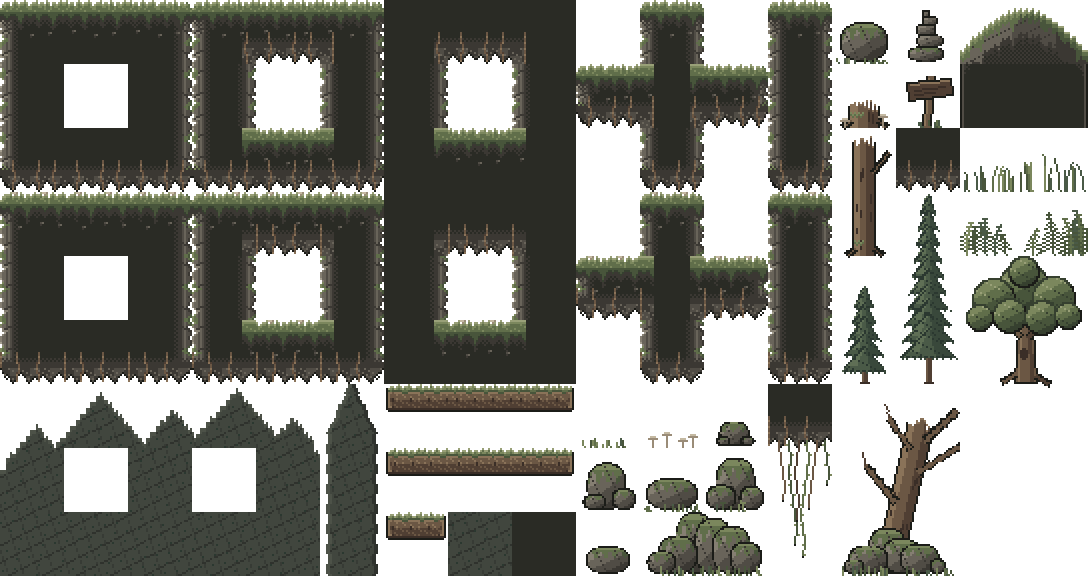
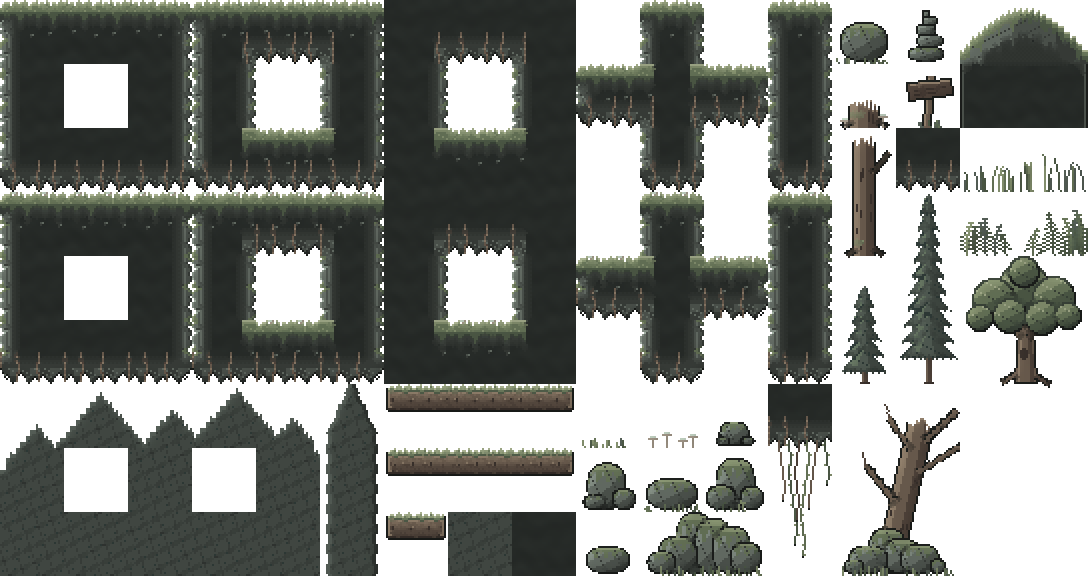
Tiles do Purgatório combinando com os fundos pintados: o atlas tiles_purgatorio_2x.png (terreno, pontes e o resto do atlas) é repintado a partir do original, só nos pixels; grade 17 x 9 de 64 px, transparência de cada pixel, layout dos tilemaps e colisão ficam iguais. Na arte 1x: o xadrez de pontilh

diff --git a/tools/arte_tiles_purgatorio.py b/tools/arte_tiles_purgatorio.py
@@ -1,0 +1,165 @@
+"""Repinta o atlas do terreno do Purgatório (assets/purgatorio/tiles/tiles_purgatorio_2x.png) para combinar com os
+fundos pintados (caverna da fase, serra do hub): rocha cinza-esverdeada, luz de cima à esquerda, sem pontilhado.
+
+Parte do atlas atual e só troca pixels: a grade (17 x 9 tiles de 64 px), a transparência de cada pixel (e portanto a
+forma e a colisão das peças) e o layout dos tilemaps não mudam. Trabalha na arte 1x (cada pixel do atlas é um bloco
+2x2) e devolve em 2x.
+- Pontilhado: onde um pixel é xadrez entre duas cores (os quatro vizinhos iguais entre si e diferentes dele), vira a
+  média das duas, então as transições ficam lisas.
+- Cor: os cinzas amarelados/marrons da rocha e da crosta viram cinza-esverdeado (mesma luminosidade, matiz da rocha
+  dos fundos); o musgo e a grama perdem um pouco do amarelo; as raízes marrons ficam, um pouco mais apagadas.
+- Miolo (o quase preto liso): ganha textura de rocha discreta e lisa, em camadas, que só depende da posição dentro
+  do tile, então emenda em qualquer vizinho (miolo 144, bordas, quinas e cantos internos da t208 casam entre si).
+  Continua bem mais escuro que qualquer coisa do fundo.
+- Luz: em cada tile, a beira da peça virada para cima/esquerda (grama, parede esquerda) clareia e a virada para
+  baixo/direita (teto, estalactites, parede direita) escurece, pelo gradiente da opacidade borrada dentro do tile.
+Gerador de arte (não mexe no jogo.json); parte da versão do atlas que está no git antes desta tarefa, então rodar de
+novo dá o mesmo resultado:  python3 tools/arte_tiles_purgatorio.py
+"""
+import io, os, subprocess
+import numpy as np
+from PIL import Image
+
+RAIZ = os.path.dirname(os.path.dirname(os.path.abspath(__file__)))
+REL = 'assets/purgatorio/tiles/tiles_purgatorio_2x.png'
+ARQ = os.path.join(RAIZ, REL)
+ORIGEM = '9e2bf35'     # commit com o atlas original (antes desta repintura)
+T = 32                 # tile em pixels de arte
+
+MIOLO = (42, 43, 37)   # cor lisa do miolo no atlas original
+TOM_ROCHA = np.array([0.94, 1.04, 0.97])   # matiz cinza-esverdeado dos fundos (r, g, b relativos à luminosidade)
+ROCHA_TINGE = 0.85     # quanto os cinzas/marrons de rocha vão para esse matiz
+MUSGO_DESSATURA = 0.18 # quanto o musgo/grama perde de saturação (e de amarelo)
+RAIZ_DESSATURA = 0.30  # quanto as raízes marrons perdem de saturação
+SATURADO = 0.22        # acima desta saturação a cor é musgo ou raiz, não rocha
+
+MIOLO_LUM = 40.0       # luminosidade média do miolo (o fundo mais escuro fica acima de ~55)
+MIOLO_VAR = 2.5        # variação da textura do miolo (em níveis de 0-255)
+MIOLO_CAMADAS = 1.2    # força das camadas de rocha (horizontais, onduladas)
+LUZ = 0.16             # quanto a beira virada para a luz clareia (e a outra escurece)
+LUZ_SIGMA = 2.0        # alcance da luz a partir da beira (px de arte)
+
+
+def atlas_original():
+    dados = subprocess.run(['git', '-C', RAIZ, 'show', f'{ORIGEM}:{REL}'], capture_output=True, check=True).stdout
+    return np.array(Image.open(io.BytesIO(dados)).convert('RGBA'))
+
+
+def sem_xadrez(rgb, alfa):
+    """troca o pixel de xadrez pela média com o vizinho: é xadrez quando os dois vizinhos de um eixo são iguais entre
+    si e diferentes dele, algum vizinho na diagonal é igual a ele e ele não é uma linha fina (no outro eixo algum
+    vizinho também difere). Linhas de 1 px (raízes, cipós) ficam."""
+    c = rgb.astype(float)
+    out = c.copy()
+    q = np.pad(rgb.astype(int), ((1, 1), (1, 1), (0, 0)), mode='edge')
+    qa = np.pad(alfa, 1, mode='edge')
+    v = lambda dy, dx: q[1 + dy:q.shape[0] - 1 + dy, 1 + dx:q.shape[1] - 1 + dx]
+    va = lambda dy, dx: qa[1 + dy:qa.shape[0] - 1 + dy, 1 + dx:qa.shape[1] - 1 + dx]
+    ig = lambda x, y: (x == y).all(-1)
+    e, d, s_, b = v(0, -1), v(0, 1), v(-1, 0), v(1, 0)
+    diag = ig(v(-1, -1), rgb) | ig(v(-1, 1), rgb) | ig(v(1, -1), rgb) | ig(v(1, 1), rgb)
+    opaco = (alfa > 0) & (va(0, -1) > 0) & (va(0, 1) > 0) & (va(-1, 0) > 0) & (va(1, 0) > 0)
+    hor = ig(e, d) & ~ig(e, rgb) & (~ig(s_, rgb) | ~ig(b, rgb))
+    ver = ig(s_, b) & ~ig(s_, rgb) & (~ig(e, rgb) | ~ig(d, rgb))
+    m = (hor | ver) & diag & opaco
+    # a faixa de xadrez (os marcados e os vizinhos deles) vira a média 3x3 dos pixels da própria faixa
+    faixa = m.copy()
+    faixa[:, 1:] |= m[:, :-1]
+    faixa[:, :-1] |= m[:, 1:]
+    faixa[1:] |= m[:-1]
+    faixa[:-1] |= m[1:]
+    faixa &= alfa > 0
+    soma = np.zeros_like(c)
+    n = np.zeros(alfa.shape)
+    fp = np.pad(faixa, 1)
+    cp = np.pad(c, ((1, 1), (1, 1), (0, 0)))
+    for dy in (-1, 0, 1):
+        for dx in (-1, 0, 1):
+            f = fp[1 + dy:fp.shape[0] - 1 + dy, 1 + dx:fp.shape[1] - 1 + dx]
+            soma += cp[1 + dy:cp.shape[0] - 1 + dy, 1 + dx:cp.shape[1] - 1 + dx] * f[..., None]
+            n += f
+    out[faixa] = soma[faixa] / n[faixa][:, None]
+    return out
+
+
+def recolore(c):
+    lum = c @ np.array([0.299, 0.587, 0.114])
+    mx, mn = c.max(-1), c.min(-1)
+    sat = (mx - mn) / np.maximum(mx, 1)
+    verde = c[..., 1] >= c[..., 0]
+    out = c.copy()
+    rocha = sat < SATURADO
+    alvo = lum[..., None] * TOM_ROCHA / (TOM_ROCHA @ np.array([0.299, 0.587, 0.114]))
+    out[rocha] = c[rocha] + (alvo[rocha] - c[rocha]) * ROCHA_TINGE
+    musgo = ~rocha & verde
+    cinza = lum[..., None]
+    out[musgo] = c[musgo] + (cinza[musgo] * np.array([0.97, 1.03, 0.98]) - c[musgo]) * MUSGO_DESSATURA
+    out[musgo, 2] += 4                                  # menos amarelo
+    raiz = ~rocha & ~verde
+    out[raiz] = c[raiz] + (cinza[raiz] - c[raiz]) * RAIZ_DESSATURA
+    return out
+
+
+def textura_miolo():
+    """textura periódica no tile (emenda em qualquer vizinho): manchas lisas + camadas de rocha onduladas."""
+    rng = np.random.default_rng(208)
+    y, x = np.mgrid[0:T, 0:T] / T * 2 * np.pi
+    tx = np.zeros((T, T))
+    for _ in range(9):
+        fx, fy = rng.integers(-3, 4), rng.integers(1, 4)
+        tx += rng.uniform(0.4, 1) * np.cos(fx * x + fy * y + rng.uniform(0, 2 * np.pi))
+    tx /= np.abs(tx).max()
+    onda = 0.35 * np.sin(x + 1.3) + 0.2 * np.sin(2 * x + 0.4)
+    camadas = np.clip(np.cos(2 * (y + onda)) * 1.6, -1, 1)          # duas camadas por tile
+    return MIOLO_VAR * tx + MIOLO_CAMADAS * camadas
+
+
+def borra(a, sigma):
+    r = int(sigma * 3)
+    k = np.exp(-np.arange(-r, r + 1) ** 2 / (2 * sigma ** 2))
+    k /= k.sum()
+    p = np.pad(a, r, mode='edge')
+    o = sum(w * p[i:i + a.shape[0], :] for i, w in enumerate(k))
+    return sum(w * o[:, i:i + a.shape[1]] for i, w in enumerate(k))
+
+
+def luz(alfa):
+    """luz pela beira, calculada tile a tile (a beira do tile repete, então o que continua no vizinho não muda)."""
+    h, w = alfa.shape
+    out = np.zeros((h, w))
+    for ty in range(0, h, T):
+        for tx in range(0, w, T):
+            a = (alfa[ty:ty + T, tx:tx + T] > 0).astype(float)
+            if a.min() == a.max():
+                continue
+            b = borra(a, LUZ_SIGMA)
+            gv, gu = np.gradient(b)
+            out[ty:ty + T, tx:tx + T] = np.tanh((gu * 0.55 + gv * 0.85) * 6)
+    return out
+
+
+def main():
+    a2 = atlas_original()
+    a = a2[::2, ::2]
+    assert (np.repeat(np.repeat(a, 2, 0), 2, 1) == a2).all(), 'o atlas não é arte 2x'
+    rgb, alfa = a[..., :3], a[..., 3]
+    miolo = (rgb == MIOLO).all(-1) & (alfa > 0)
+
+    c = sem_xadrez(rgb, alfa)
+    miolo &= (c == rgb).all(-1)                      # a faixa de xadrez que virou média não é miolo
+    c = recolore(c)
+    h, w = alfa.shape
+    tex = np.tile(textura_miolo(), (h // T, w // T))
+    lum_miolo = MIOLO_LUM + tex
+    c[miolo] = lum_miolo[miolo][:, None] * TOM_ROCHA
+    c = c * (1 + LUZ * luz(alfa))[..., None]
+
+    out = np.dstack([np.clip(c, 0, 255).round(), alfa]).astype(np.uint8)
+    out[alfa == 0] = 0
+    out = np.repeat(np.repeat(out, 2, 0), 2, 1)
+    Image.fromarray(out, 'RGBA').save(ARQ, optimize=True)
+    print('atlas salvo em', ARQ, out.shape)
+
+
+if __name__ == '__main__':
+    main()
